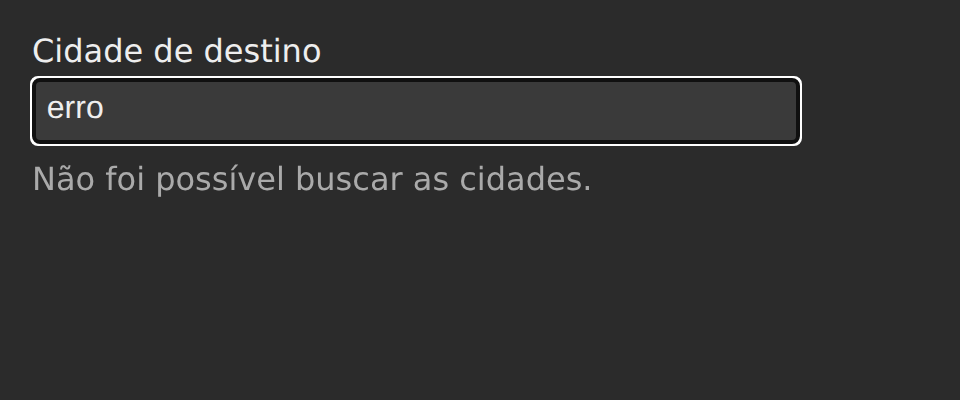
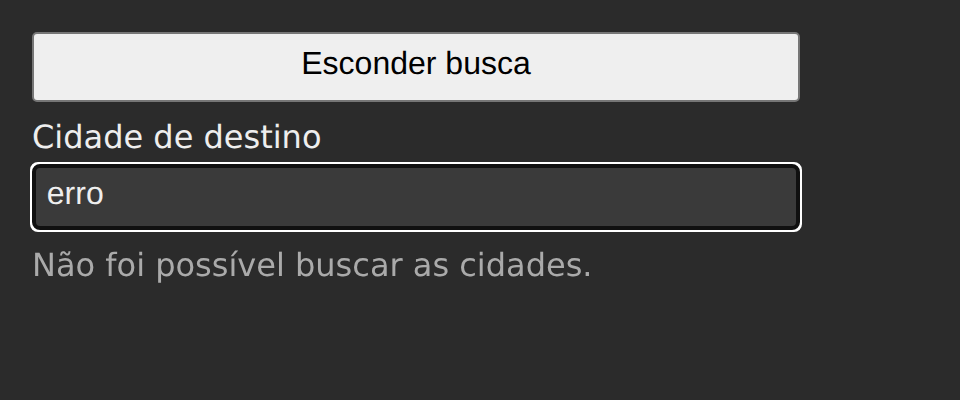
Esconde e mostra a Busca no Web Component
Desde "Leva à Busca as regras comuns da primeira rodada", o teste de
conformidade pede o botão "Esconder busca" e zero requisições abertas
depois dele, e o Web Component ainda abre o <busca-de-destino> direto
no body, sem página que o tire e o ponha de volta, e sem
disconnectedCallback: fora da página, a requisição em andamento
seguiria até a resposta.

Entra a página, o elemento <busca-com-sugestoes>, como a do Login e a
do Placar ao vivo: o esqueleto em HTML com o botão, e a busca criada
com createElement e posta com append, como o implementacoes/AGENTS.md
pede para o elemento filho que o botão põe na página, e tirada com
remove. O esqueleto da busca troca o <main class="busca">, que passa à
página, pelo <section class="painel">, e o disconnectedCallback chama
o cancelar(), que aborta a requisição em andamento. A situação já
estava num <p> com role="status" escondido desde a abertura: o
requisito "Situação anunciada" só ganha a verificação.

npm run conformidade -- busca-com-sugestoes/web-component passa nas 17
verificações; sem o disconnectedCallback, falha "11 esconder durante a
busca cancela a requisição", com uma requisição aberta. As capturas
das seis cenas mudam com a página, o botão acima do campo, e entra a
da cena escondido, conferidas nas imagens.

Refs: tcc-v4m7

Changed region(s): [[0.0312, 0.06, 0.8438, 0.6], [0.0312, 0.63, 0.625, 0.69]]

diff --git a/implementacoes/busca-com-sugestoes/web-component/src/main.ts b/implementacoes/busca-com-sugestoes/web-component/src/main.ts
@@ -9,7 +9,7 @@ import {
 import "../../estilo.css";
 
 const modelo = /* HTML */ `
-  <main class="busca">
+  <section class="painel">
     <label>
       Cidade de destino
       <input
@@ -21,7 +21,7 @@ const modelo = /* HTML */ `
     <p class="situacao" role="status" hidden></p>
     <ul class="sugestoes" hidden></ul>
     <p class="escolha" hidden></p>
-  </main>
+  </section>
 `;
 
 class BuscaDeDestino extends HTMLElement {
@@ -51,6 +51,11 @@ class BuscaDeDestino extends HTMLElement {
         this.limpar();
       }
     });
+  }
+
+  // Sem isto, a requisição continua fora da página.
+  disconnectedCallback() {
+    this.cancelar();
   }
 
   private buscar(termo: string) {
@@ -114,4 +119,35 @@ class BuscaDeDestino extends HTMLElement {
   }
 }
 
+// A página: o botão que tira a busca da página e a põe de volta.
+class BuscaComSugestoes extends HTMLElement {
+  private busca?: BuscaDeDestino;
+
+  connectedCallback() {
+    this.innerHTML = /* HTML */ `
+      <main class="busca">
+        <button type="button" class="alternar">Esconder busca</button>
+      </main>
+    `;
+    const principal = this.querySelector("main")!;
+    const alternar = this.querySelector<HTMLButtonElement>(".alternar")!;
+    const mostrar = () => {
+      this.busca = document.createElement("busca-de-destino") as BuscaDeDestino;
+      principal.append(this.busca);
+      alternar.textContent = "Esconder busca";
+    };
+    alternar.addEventListener("click", () => {
+      if (this.busca) {
+        this.busca.remove();
+        this.busca = undefined;
+        alternar.textContent = "Mostrar busca";
+      } else {
+        mostrar();
+      }
+    });
+    mostrar();
+  }
+}
+
 customElements.define("busca-de-destino", BuscaDeDestino);
+customElements.define("busca-com-sugestoes", BuscaComSugestoes);

diff --git a/implementacoes/busca-com-sugestoes/web-component/index.html b/implementacoes/busca-com-sugestoes/web-component/index.html
@@ -6,7 +6,7 @@
     <title>Busca com sugestões com Web Component</title>
   </head>
   <body>
-    <busca-de-destino></busca-de-destino>
+    <busca-com-sugestoes></busca-com-sugestoes>
     <script type="module" src="/src/main.ts"></script>
   </body>
 </html>
